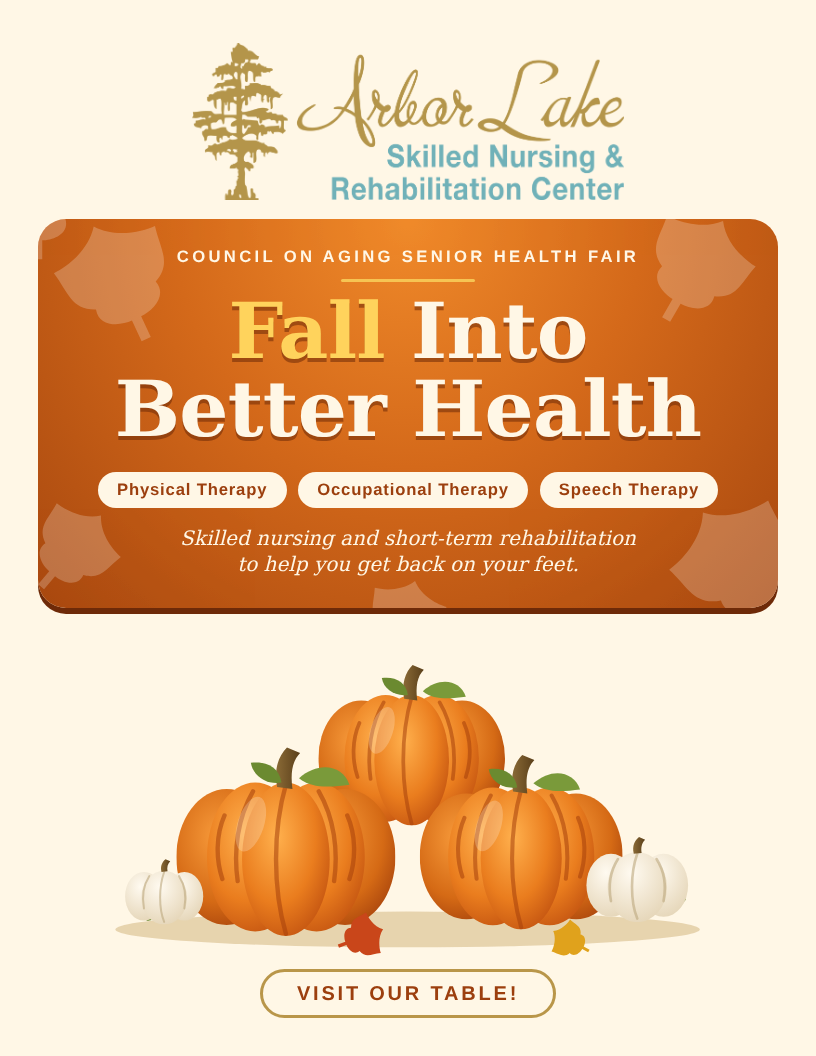
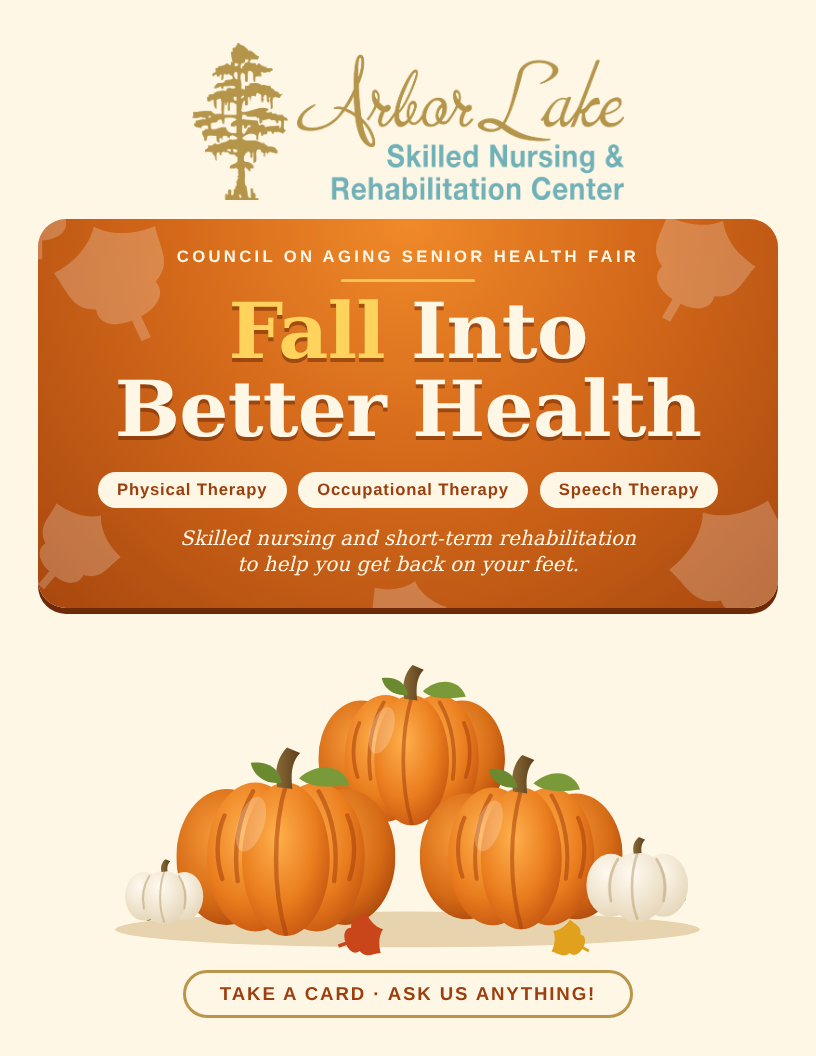
Table sign wording: take a card, ask us anything
Claude-Session: https://claude.ai/code/session_01NNqe39hNewfGEUkioAfG2Z

Changed region(s): [[0.2145, 0.9062, 0.7659, 0.9688]]

diff --git a/flyers/fall-health-fair-flyer.html b/flyers/fall-health-fair-flyer.html
@@ -25,7 +25,7 @@
   .scene{position:relative;min-height:0;padding-bottom:.62in;flex:1;width:100%;display:flex;align-items:flex-end;justify-content:center;margin-top:.1in}
   .scene svg{width:100%;height:100%}
   .cta{position:absolute;bottom:0;left:0;right:0;text-align:center}
-  .cta b{display:inline-block;background:var(--cream);color:var(--rust);font-size:15pt;letter-spacing:.14em;text-transform:uppercase;padding:.1in .35in;border-radius:999px;border:3px solid var(--gold)}
+  .cta b{display:inline-block;background:var(--cream);color:var(--rust);font-size:14pt;letter-spacing:.1em;text-transform:uppercase;padding:.1in .35in;border-radius:999px;border:3px solid var(--gold)}
 </style>
 </head>
 <body>
@@ -93,7 +93,7 @@
         <path d="M0-30C10-16 30-12 38-12 34 4 38 16 22 22 26 34 12 40 4 40V54h-6V40C-12 40-26 34-22 22-38 16-34 4-38-12-30-12-10-16 0-30z" fill="#e0a21c" transform="translate(575 396) rotate(-60) scale(.6)"/>
       </g>
     </svg>
-    <div class="cta"><b>Visit our table!</b></div>
+    <div class="cta"><b>Take a card &middot; Ask us anything!</b></div>
   </div>
 </div>
 </body></html>
